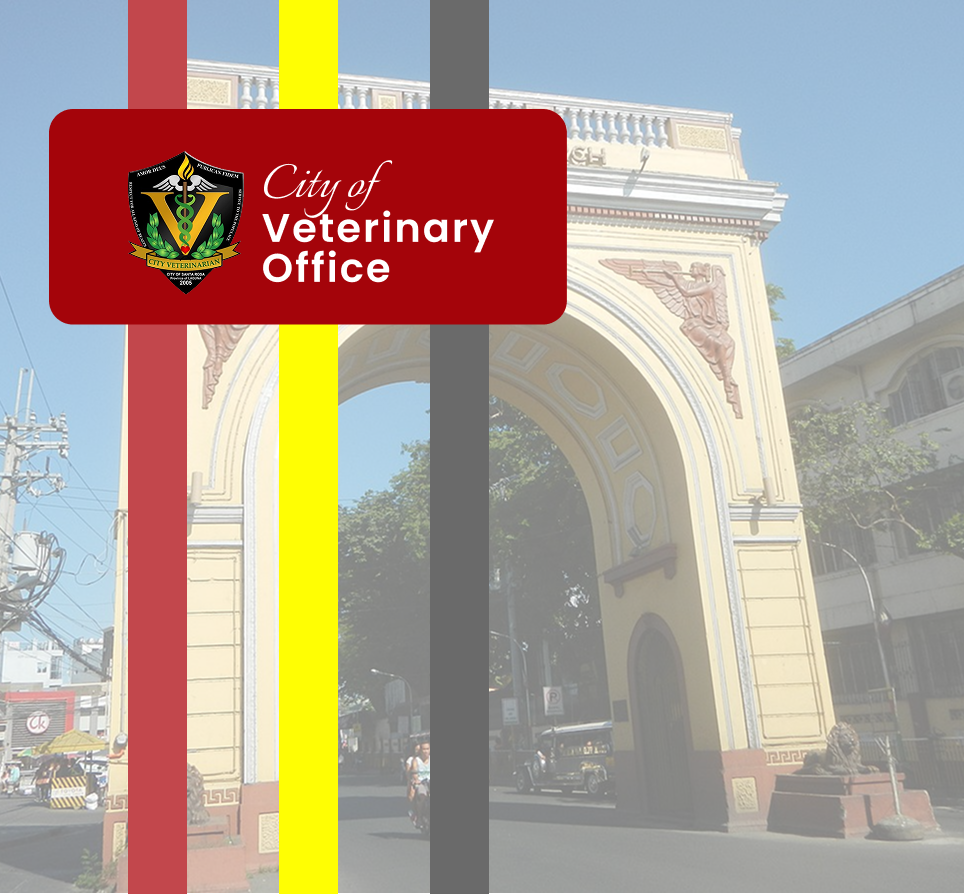
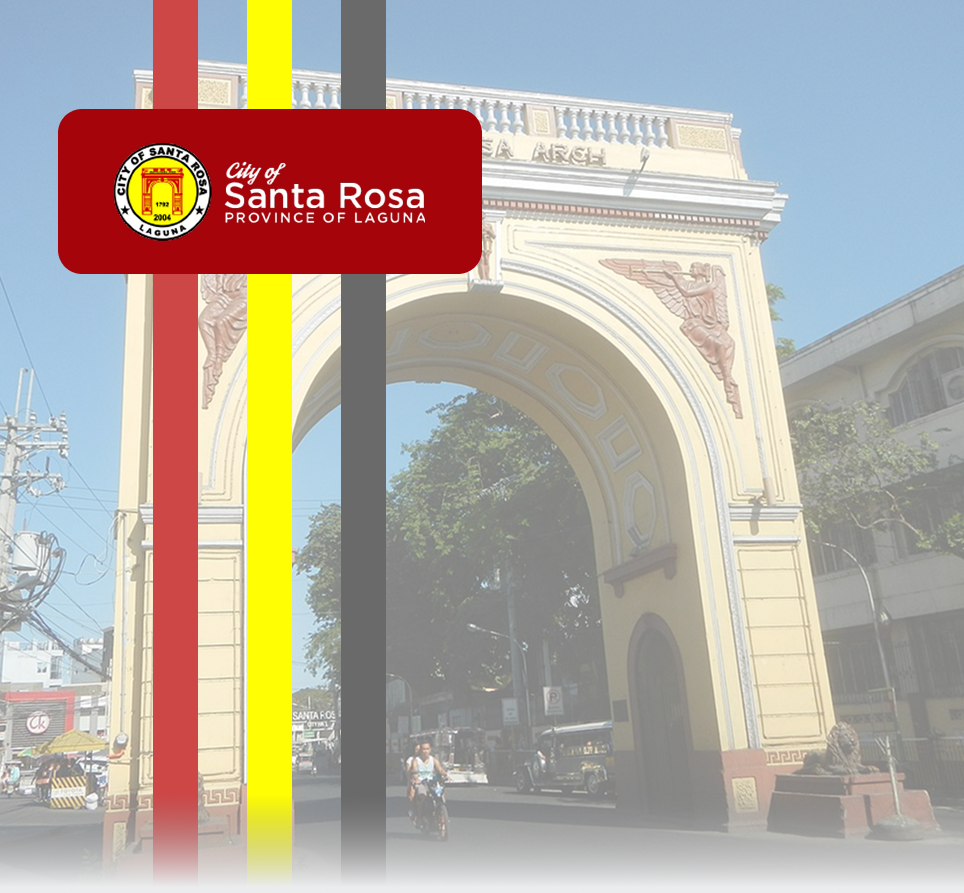
Changed the UI based on CITO Request

diff --git a/resources/views/auth/register/step3.blade.php b/resources/views/auth/register/step3.blade.php
@@ -138,21 +138,21 @@
                         
                         {{-- Left Side: Back Button --}}
                         <div class="w-full md:w-auto">
-                            <a href="{{ route('register.step1') }}" class="inline-block w-full md:w-auto bg-gray-500 hover:bg-gray-600 text-white font-black py-4 px-10 rounded-2xl shadow-lg transition-all active:scale-95 uppercase tracking-widest text-sm text-center">
+                            <a href="{{ route('register.step2') }}" class="inline-block w-full md:w-auto bg-gray-500 hover:bg-gray-600 text-white font-black py-4 px-10 rounded-2xl shadow-lg transition-all active:scale-95 uppercase tracking-widest text-sm text-center">
                                 Back
                             </a>
                         </div>
 
                         {{-- Right Side: Login Link + Submit Button --}}
                         <div class="flex flex-col items-center md:items-end w-full md:w-auto">
-                            <p class="text-[15px] font-black tracking-tighter mb-2">
-                                Already have an account? <a href="{{ route('login') }}" class="text-red-700 hover:underline">Log in here</a>
-                            </p>
                             <button type="submit" class="w-full md:w-64 bg-red-700 hover:bg-red-800 text-white font-black py-4 rounded-2xl shadow-lg transition-all active:scale-95 uppercase tracking-widest text-sm">
                                 Submit
                             </button>
                         </div>
                     </div>
+                    <p class="text-[15px] font-black tracking-tighter mb-2 text-right">
+                                Already have an account? <a href="{{ route('login') }}" class="text-red-700 hover:underline">Log in here</a>
+                    </p>
                 </form>
             </div>
         </div>

diff --git a/resources/views/auth/login.blade.php b/resources/views/auth/login.blade.php
@@ -1,16 +1,18 @@
 <x-guest-layout>
-    <div class="fixed inset-0 flex flex-col md:flex-row bg-white overflow-hidden">
+    <div class="fixed inset-0 flex flex-col md:flex-row bg-white overflow-auto">
         
-        <div class="relative w-full md:w-[60%] h-1/2 md:h-full overflow-hidden">
-            <img src="{{ asset('images/LogIn.png') }}" class="absolute inset-0 w-full h-full object-cover" alt="City Arch">
+        <div class="w-auto h-full">
+            <img src="{{ asset('images/LogIn.png') }}" 
+                class="w-auto h-full block object-top" 
+                alt="City Arch">
         </div>
 
-        <div class="relative w-full md:w-[40%] h-1/2 md:h-full flex flex-col items-center justify-center p-6 md:p-12 bg-cover bg-center" 
-             style="background-image: url('{{ asset('images/PawsBackground.png') }}');"> 
+        <div class="relative flex-1 h-full flex flex-col items-center justify-center p-6 md:p-12 bg-cover bg-center shrink-0" 
+            style="background-image: url('{{ asset('images/PawsBackground.png') }}');">
             
             <div class="w-full max-w-sm">
                 <div class="flex justify-center mb-6">
-                    <img src="{{ asset('images/LogoBlack.png') }}" class="h-100 w-100 drop-shadow-md object-contain" alt="City Seal">
+                    <img src="{{ asset('images/Logo.png') }}" class="h-100 w-100 drop-shadow-md object-contain" alt="City Seal">
                 </div>
 
                 <div class="bg-white rounded-[2rem] shadow-2xl p-8 border border-gray-100">

diff --git a/resources/views/layouts/dashboardheader.blade.php b/resources/views/layouts/dashboardheader.blade.php
@@ -292,7 +292,7 @@
                 </button>
 
                 <a href="{{ route('dashboard') }}" class="flex items-center gap-2 hover:opacity-90 transition">
-                    <img src="{{ asset('images/LogoWhite.png') }}" 
+                    <img src="{{ asset('images/Logo.png') }}" 
                         alt="Logo" 
                         class="h-8 md:h-12 w-auto object-contain">
                 </a>

diff --git a/resources/views/layouts/guest.blade.php b/resources/views/layouts/guest.blade.php
@@ -11,7 +11,7 @@
          style="background-image: url('{{ asset('images/PawsBackground.png') }}');">
         
         <div class="mt-8 mb-2"> 
-            <img src="{{ asset('images/LogoBlack.png') }}" 
+            <img src="{{ asset('images/Logo.png') }}" 
                  alt="Logo" 
                  class="w-auto h-20 md:h-28 object-contain mx-auto">
         </div>
